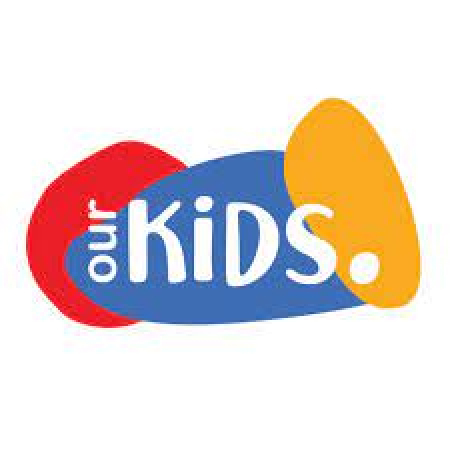
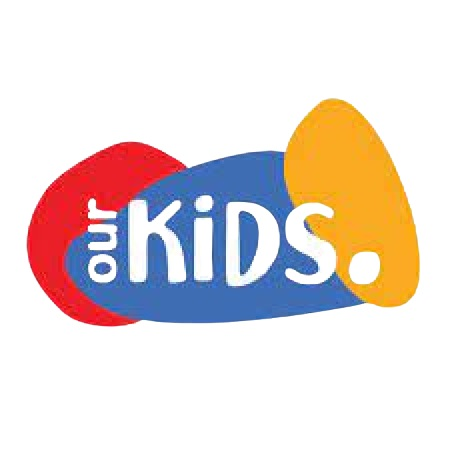
Added div elements to the Back2School project page

diff --git a/Back2School.css b/Back2School.css
@@ -72,16 +72,20 @@ html {
     padding-bottom: 20px;
   }
   .thumbnail{
-    width: 750px;
+    width: 450px;
     height: 450px;
     display: block;
     margin: auto;
     object-fit: cover;
   }
-  .logo{
-    width: 450px;
-    height: 450px;
+  .ourKids{
+    width: 250px;
+    height: 250px;
     object-fit: cover;
+    padding: 10px;
+  }
+  #ourKidsRight{
+    justify-self: right;
   }
   .flex-container {
     display: flex;
@@ -89,21 +93,45 @@ html {
     justify-content: center;
     align-items: center;
     background-color: #f1cbca;
-    height: 500px;
   }
   .column {
     background-color: #f1cbca;
     flex: 50%;
+  
   }
   @media screen and (max-width: 600px) {
     .flex-container {
       flex-direction: column;
     }
   }
+  .row1{
+    display: block;
+    margin: auto;
+    text-align: center;
+    background-color: #f1cbca;
+  }
+  .row2{
+    display: flex;
+    flex-direction: row;
+    background-color: #f1cbca;
+    margin: 0px;
+  }
+  .queue{
+    flex: 30%;
+    background-color: #f1cbca;
+  }
+  @media screen and (max-width: 600px) {
+    .row2 {
+      flex-direction: column;
+    }
+  }
+  .container{
+    background-color: #f1cbca;
+  }
   .content{
-    justify-content: center;
     width: 75%;
     margin: auto;
+    
   }
   .main-content{
     width: 40%;

diff --git a/Back2School.html b/Back2School.html
@@ -35,12 +35,18 @@
         <h3 class="subHeading">Problem Statement</h3>
         <p>Having to go visit a school physically can be exhausting especially when you are unsure. Little information about private schools around your area.</p>
       </div>
-      <div class="main-content">
+ 
+      <div class="container">
+      <div class="row1">
         <h3 class="subHeading">Competitive Analysis</h3>
         <h4>Our Kid's Platform</h4>
-        <img class="logo" src="images/ourKids.jpg" alt="Our Kids Platform Logo">
+      </div>
+
+      <div class="row2">
+      <div class="queue">
+        <img class="ourKids" id="ourKidsRight" src="images/ourKids.jpg" alt="Our Kids Platform Logo">
         </div>
-      <div class="side-content">
+      <div class="queue">
         <h4>Strengths</h4>
         <ul>
         <li>Filter search results
@@ -49,6 +55,8 @@
         <li>The platform has reviews from former parents.</li>
         </ul>
       </div>
+    </div>
+  </div>
       
     </body>
     </html>
